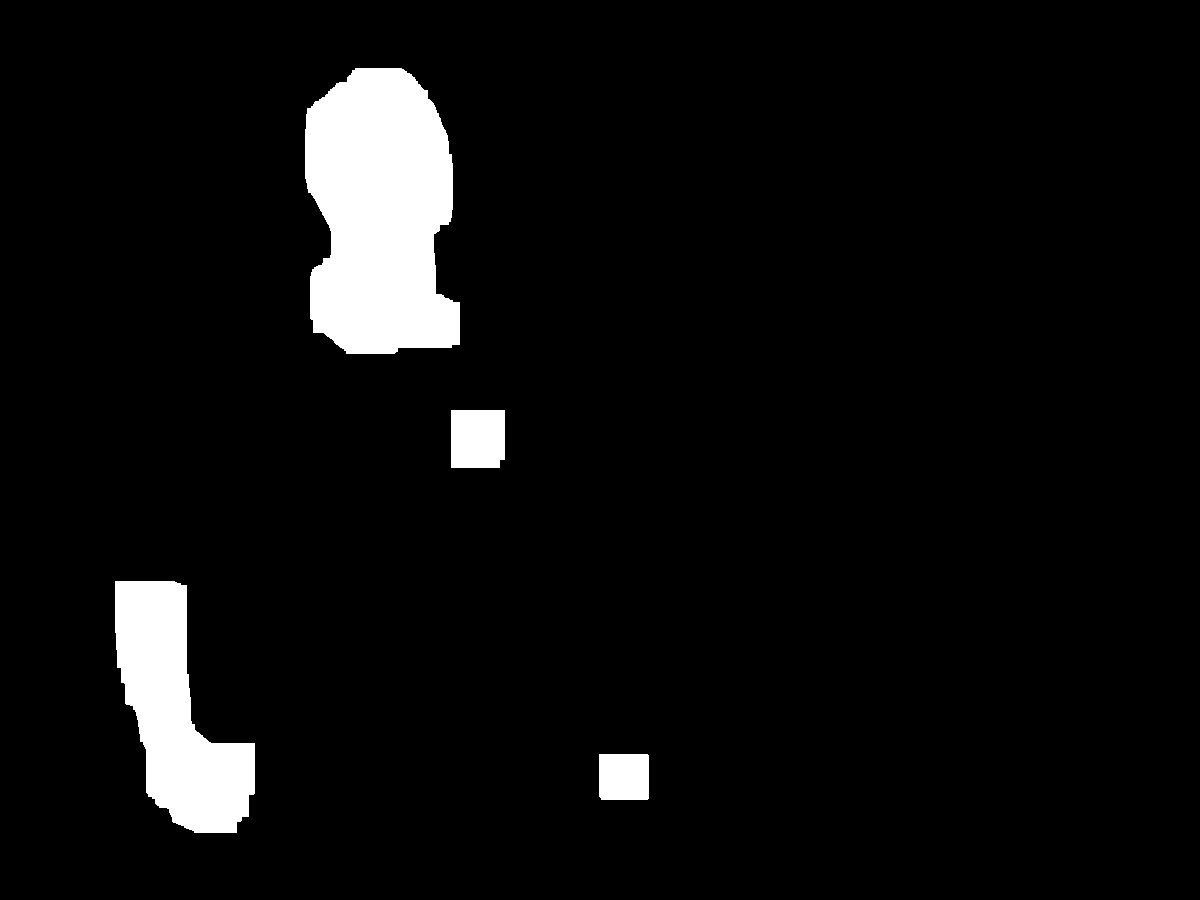
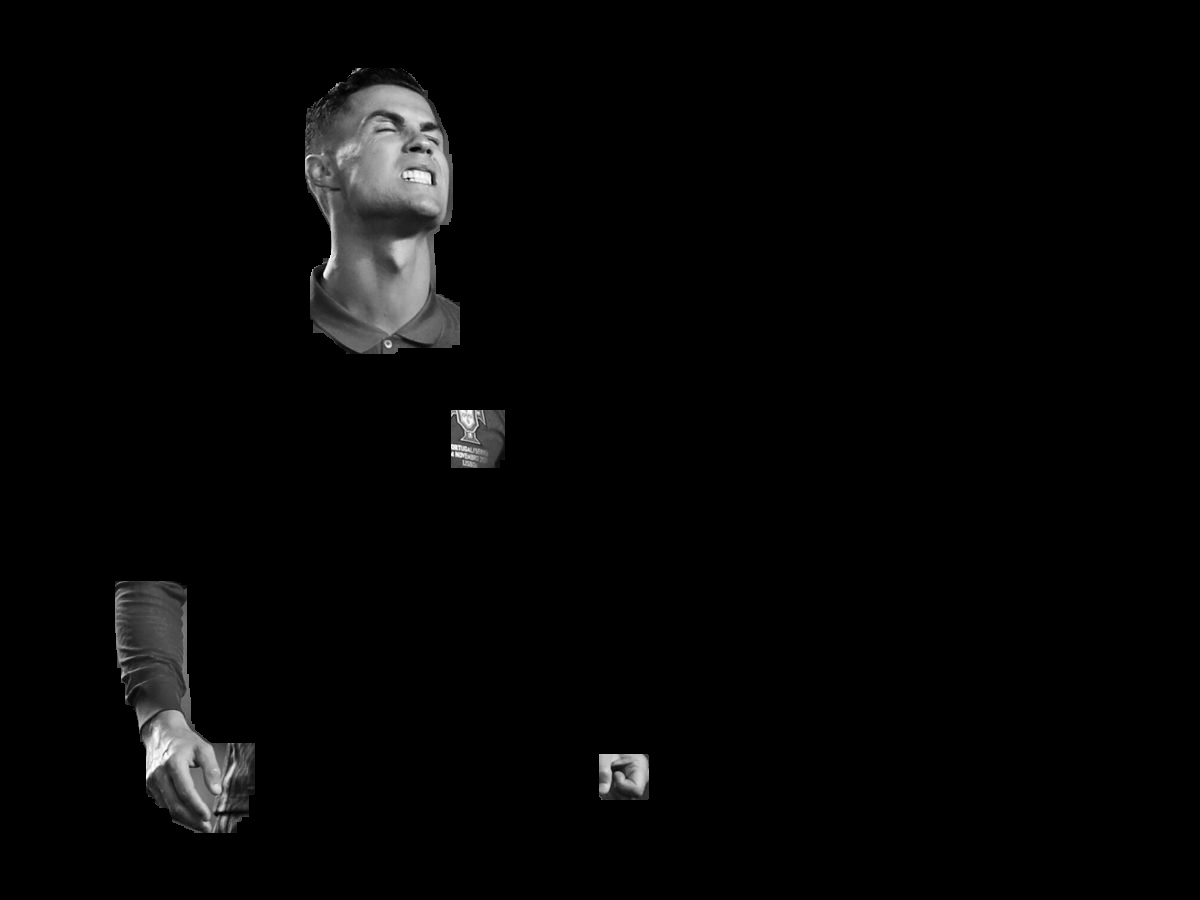
Corrección error mínimo

diff --git a/shape_detection/histogram/histograma.py b/shape_detection/histogram/histograma.py
@@ -52,4 +52,4 @@ cv2.imwrite('nadal_util.jpg', th2e)
 prueba_mask = cv2.bitwise_and(img, img, mask=th2e)
 plt.imshow(prueba_mask, 'gray')
 plt.show()
-cv2.imwrite('nadal_mask.jpg', th2e)
+cv2.imwrite('nadal_mask.jpg', prueba_mask)

diff --git a/shape_detection/histogram/histograma_general.py b/shape_detection/histogram/histograma_general.py
@@ -53,4 +53,4 @@ cv2.imwrite('CR7_util.jpg', th2e)
 prueba_mask = cv2.bitwise_and(img, img, mask=th2e)
 plt.imshow(prueba_mask, 'gray')
 plt.show()
-cv2.imwrite('CR7_mask.jpg', th2e)
+cv2.imwrite('CR7_mask.jpg', prueba_mask)
